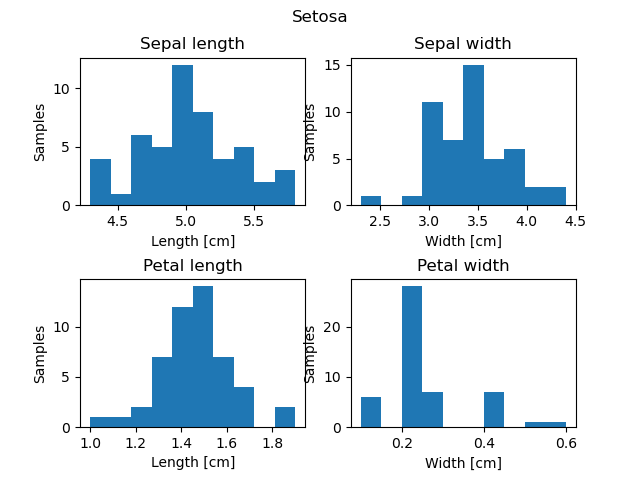
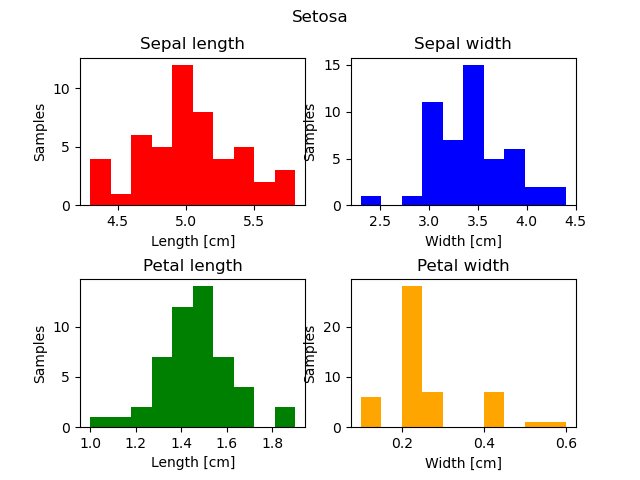
Adjusted plots

diff --git a/Classification1-10/The_Iris_Task/Task1_abc/plotting.py b/Classification1-10/The_Iris_Task/Task1_abc/plotting.py
@@ -7,25 +7,25 @@ def setosa_hist_plots():
     plt.title("Sepal length")
     plt.xlabel("Length [cm]")
     plt.ylabel("Samples")
-    plt.hist(setosa[:,0], bins=10)
+    plt.hist(setosa[:,0], bins=10, color='red')
 
     plt.subplot(2,2,2)
     plt.title("Sepal width")
     plt.xlabel("Width [cm]")
     plt.ylabel("Samples")
-    plt.hist(setosa[:,1], bins=10)
+    plt.hist(setosa[:,1], bins=10, color='blue')
 
     plt.subplot(2,2,3)
     plt.title("Petal length")
     plt.xlabel("Length [cm]")
     plt.ylabel("Samples")
-    plt.hist(setosa[:,2], bins=10)
+    plt.hist(setosa[:,2], bins=10, color='green')
 
     plt.subplot(2,2,4)
     plt.title("Petal width")
     plt.xlabel("Width [cm]")
     plt.ylabel("Samples")
-    plt.hist(setosa[:,3], bins=10)
+    plt.hist(setosa[:,3], bins=10, color='orange')
 
     plt.subplots_adjust(hspace=0.5)
 
@@ -38,25 +38,25 @@ def versicolor_hist_plots():
     plt.title("Sepal length")
     plt.xlabel("Length [cm]")
     plt.ylabel("Samples")
-    plt.hist(versicolor[:,0], bins=10)
+    plt.hist(versicolor[:,0], bins=10, color='red')
 
     plt.subplot(2,2,2)
     plt.title("Sepal width")
     plt.xlabel("Width [cm]")
     plt.ylabel("Samples")
-    plt.hist(versicolor[:,1], bins=10)
+    plt.hist(versicolor[:,1], bins=10, color='blue')
 
     plt.subplot(2,2,3)
     plt.title("Petal length")
     plt.xlabel("Length [cm]")
     plt.ylabel("Samples")
-    plt.hist(versicolor[:,2], bins=10)
+    plt.hist(versicolor[:,2], bins=10, color='green')
 
     plt.subplot(2,2,4)
     plt.title("Petal width")
     plt.xlabel("Width [cm]")
     plt.ylabel("Samples")
-    plt.hist(versicolor[:,3], bins=10)
+    plt.hist(versicolor[:,3], bins=10, color='orange')
 
     plt.subplots_adjust(hspace=0.5)
 
@@ -70,25 +70,25 @@ def virginica_hist_plots():
     plt.title("Sepal length")
     plt.xlabel("Length [cm]")
     plt.ylabel("Samples")
-    plt.hist(virginica[:,0], bins=10)
+    plt.hist(virginica[:,0], bins=10, color='red')
 
     plt.subplot(2,2,2)
     plt.title("Sepal width")
     plt.xlabel("Width [cm]")
     plt.ylabel("Samples")
-    plt.hist(virginica[:,1], bins=10)
+    plt.hist(virginica[:,1], bins=10, color='blue')
 
     plt.subplot(2,2,3)
     plt.title("Petal length")
     plt.xlabel("Length [cm]")
     plt.ylabel("Samples")
-    plt.hist(virginica[:,2], bins=10)
+    plt.hist(virginica[:,2], bins=10, color='green')
 
     plt.subplot(2,2,4)
     plt.title("Petal width")
     plt.xlabel("Width [cm]")
     plt.ylabel("Samples")
-    plt.hist(virginica[:,3], bins=10)
+    plt.hist(virginica[:,3], bins=10, color='orange')
 
     plt.subplots_adjust(hspace=0.5)
 
